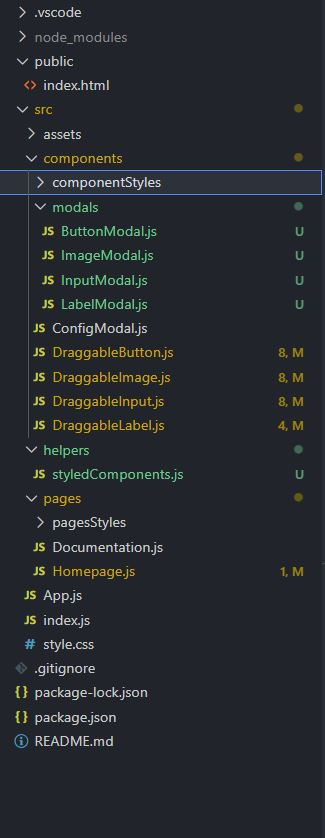
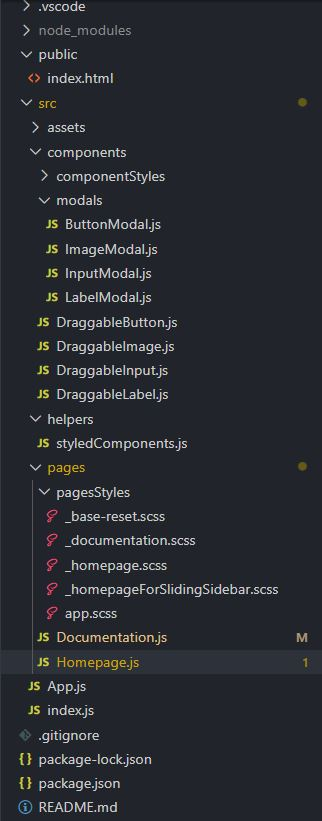
filestruc updated

diff --git a/src/pages/Documentation.js b/src/pages/Documentation.js
@@ -147,10 +147,6 @@ function Documentation() {
                   Trash area. Drag an element into this area to delete it from
                   the workspace.
                 </li>
-                <li>
-                  You can click on the dropped elements to open their respective{" "}
-                  <code>configuration modals</code>
-                </li>
               </ol>
             </p>
           </li>
